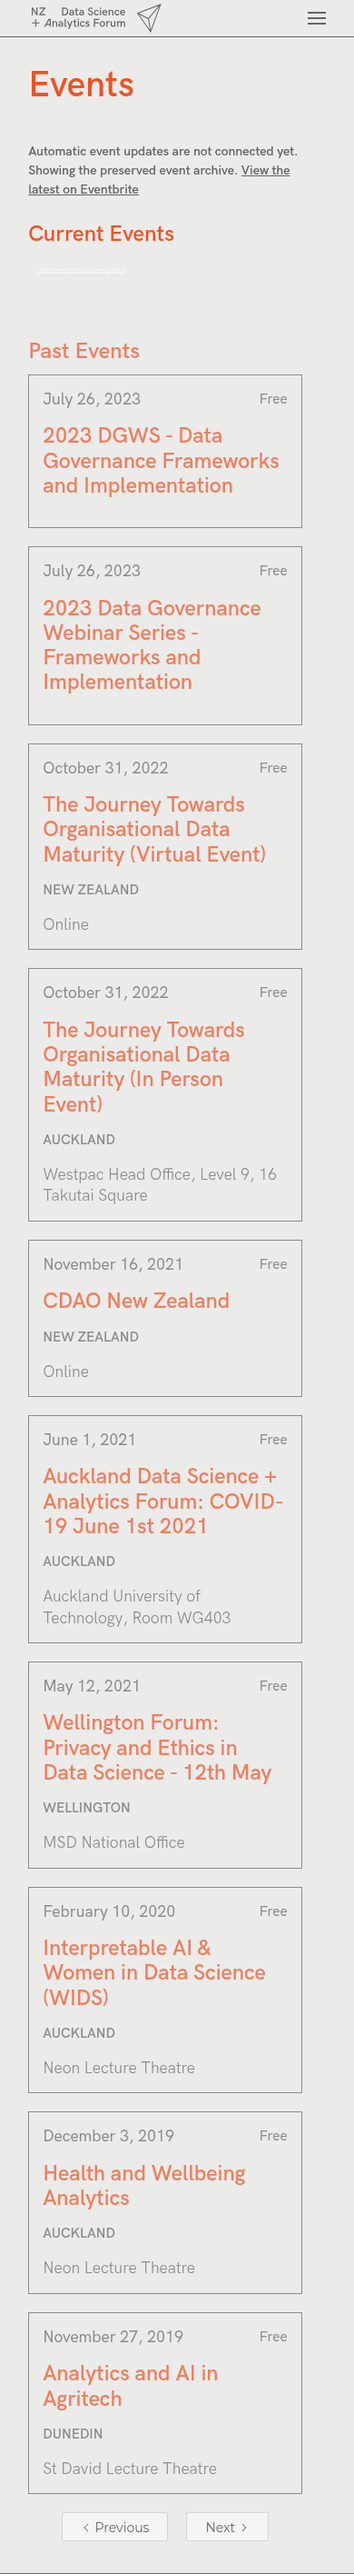
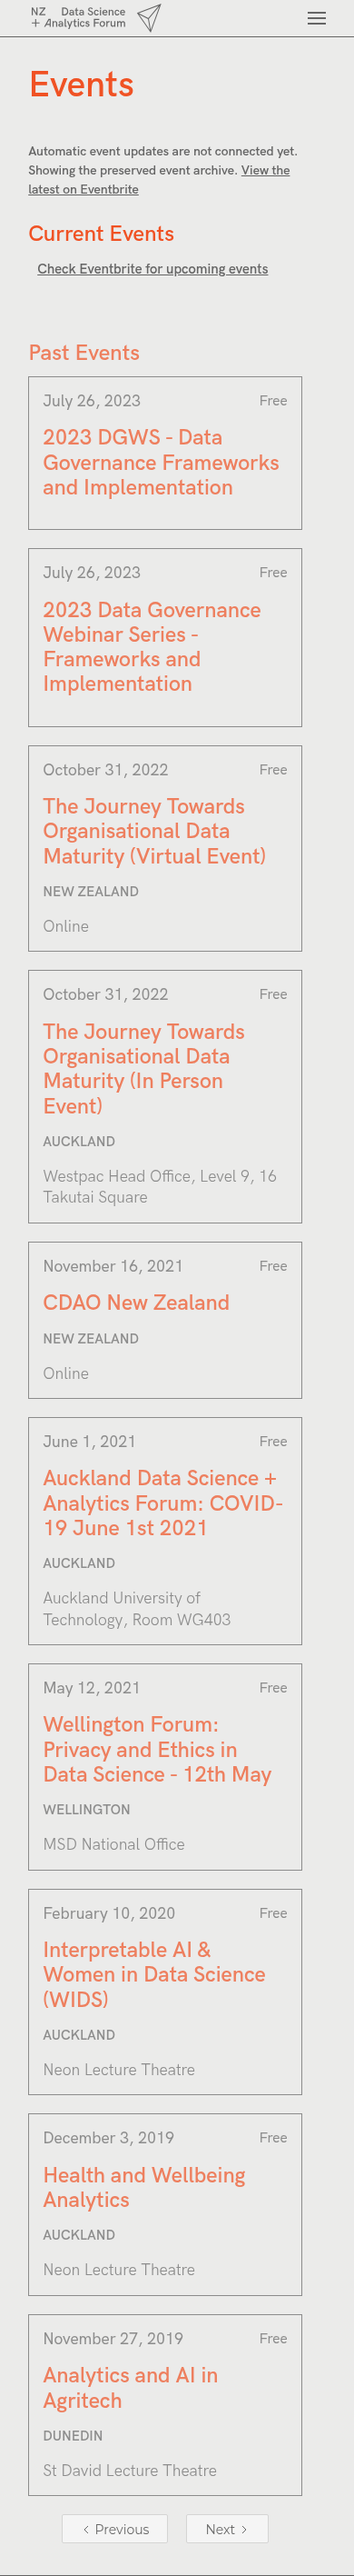
Record final responsive contact and event status verification

diff --git a/scripts/verify_event_update.py b/scripts/verify_event_update.py
@@ -56,7 +56,11 @@ def main():
                     assert page.locator('main .collection-list-wrapper-2 .w-dyn-item').count()==expected
                     assert page.locator('.event-sync-note').is_visible()
                     assert page.locator('.event-sync-note a').get_attribute('href').endswith('18441294721')
-                    if not data:assert 'not connected' in page.locator('.event-sync-note').inner_text()
+                    if not data:
+                        assert 'not connected' in page.locator('.event-sync-note').inner_text()
+                        fallback=page.locator('main .collection-list-wrapper .w-dyn-empty a')
+                        assert fallback.is_visible()
+                        assert fallback.evaluate('(x)=>getComputedStyle(x).color')=='rgb(101, 101, 101)'
                 broken=page.locator('img').evaluate_all('(xs)=>xs.filter(x=>x.getClientRects().length && (!x.complete || !x.naturalWidth)).map(x=>x.src)')
                 assert not broken,broken
                 assert page.evaluate('document.documentElement.scrollWidth <= innerWidth'),route
